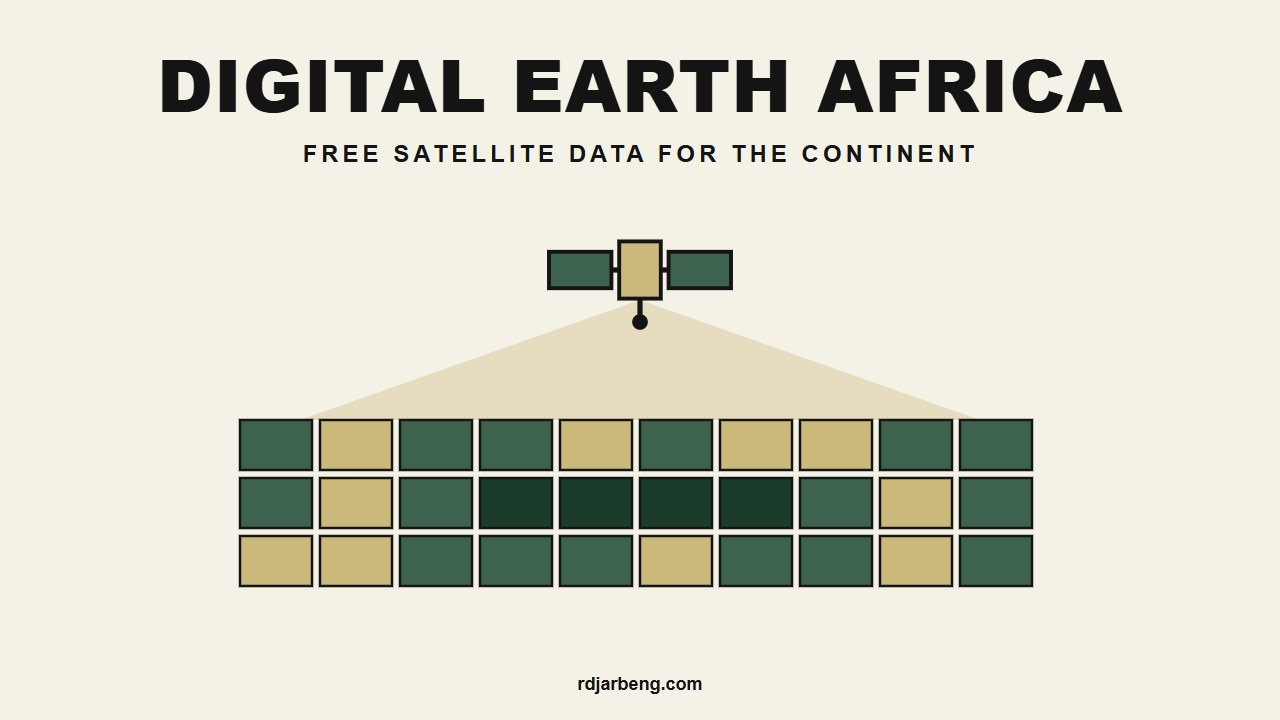
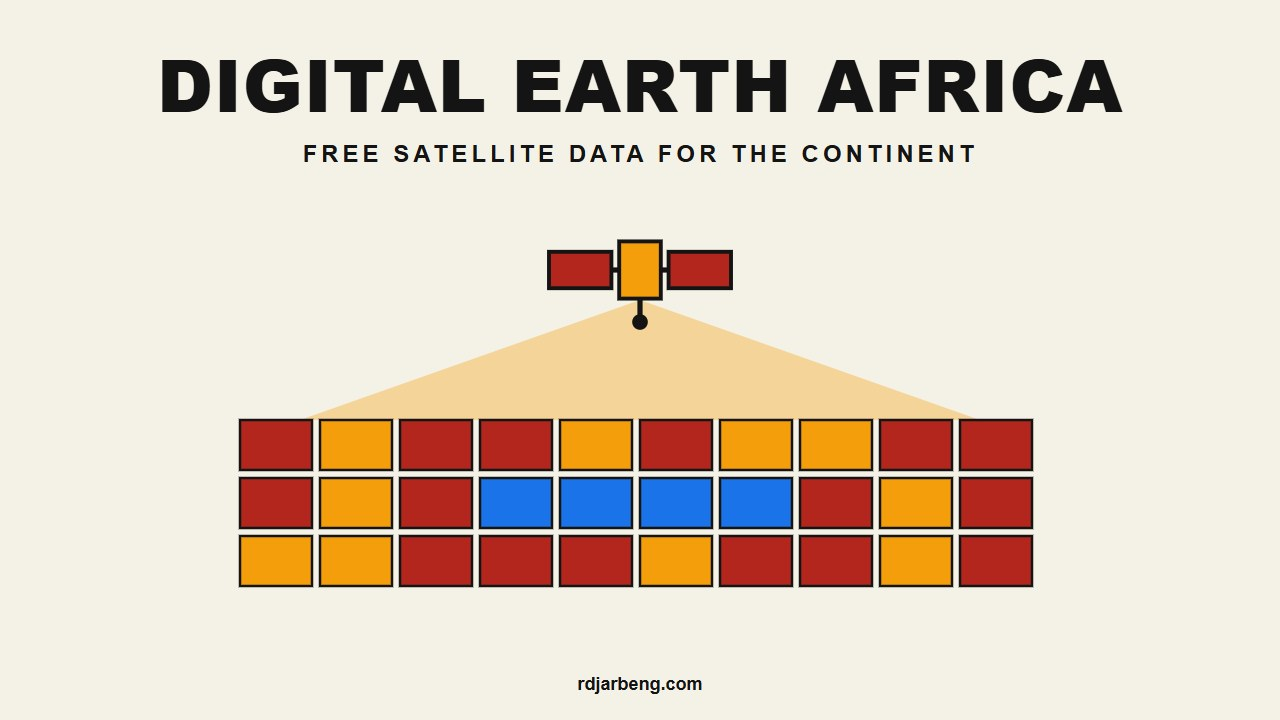
Organisation draft covers: a palette per post instead of one for all

Changed region(s): [[0.1875, 0.3361, 0.8125, 0.825]]

diff --git a/scripts/diagrams/covers/eo_org_covers.py b/scripts/diagrams/covers/eo_org_covers.py
@@ -164,7 +164,7 @@ COVERS = {
 def cover(headline, hook, art):
     size = min(72, int(1180 / (0.74 * len(headline))))
     return f'''<svg xmlns="http://www.w3.org/2000/svg" viewBox="0 0 1280 720" width="1280" height="720">
-  <!-- Generated by scripts/diagrams/covers/eo_org_covers.py. Muted Botanical; all text #141414. -->
+  <!-- Generated by scripts/diagrams/covers/eo_org_covers.py. Palette per cover (COVER_PALETTE); all text #141414. -->
   <rect width="1280" height="720" fill="{PAPER}"/>
   <g fill="{INK}" font-family="'Arial Black', 'Helvetica Neue', Impact, sans-serif" text-anchor="middle">
     <text x="640" y="112" font-size="{size}" font-weight="900" letter-spacing="1">{headline}</text>
@@ -176,8 +176,25 @@ def cover(headline, hook, art):
 '''
 
 
+# One of the six site palettes per cover, so posts don't all share one look.
+# Each maps to the (dark, mid, light) roles the art functions use as PINE, SAGE, SAND.
+PALETTES = {
+    "botanical":  ("#1b3b2b", "#3d634e", "#cbb87b"),   # Muted Botanical
+    "primaries":  ("#2d4763", "#b84d43", "#cfa14a"),   # Muted Primaries
+    "risograph":  ("#38233f", "#6d597a", "#d99b26"),   # Muted Risograph
+    "stripe":     ("#0a2540", "#635bff", "#ff705a"),   # Stripe Modernist
+    "carbon":     ("#121619", "#0f62fe", "#009d9a"),   # IBM Carbon
+    "m3":         ("#1a73e8", "#b3261e", "#f59e0b"),   # Google M3 Tonal
+}
+COVER_PALETTE = {
+    "digital_earth_africa": "m3", "global_forest_watch": "botanical", "global_urban_footprint": "carbon",
+    "missing_maps": "stripe", "nasa_arset": "primaries", "nasa_black_marble": "risograph",
+    "nasa_harvest": "primaries", "servir": "carbon", "smos": "botanical",
+}
+
 if __name__ == "__main__":
     for name, (h, k, art, _alt, _post) in COVERS.items():
+        PINE, SAGE, SAND = PALETTES[COVER_PALETTE[name]]
         with open(os.path.join(OUT, f"{name}.svg"), "w", encoding="utf-8", newline="\n") as f:
             f.write(cover(h, k, art))
         print(name)
